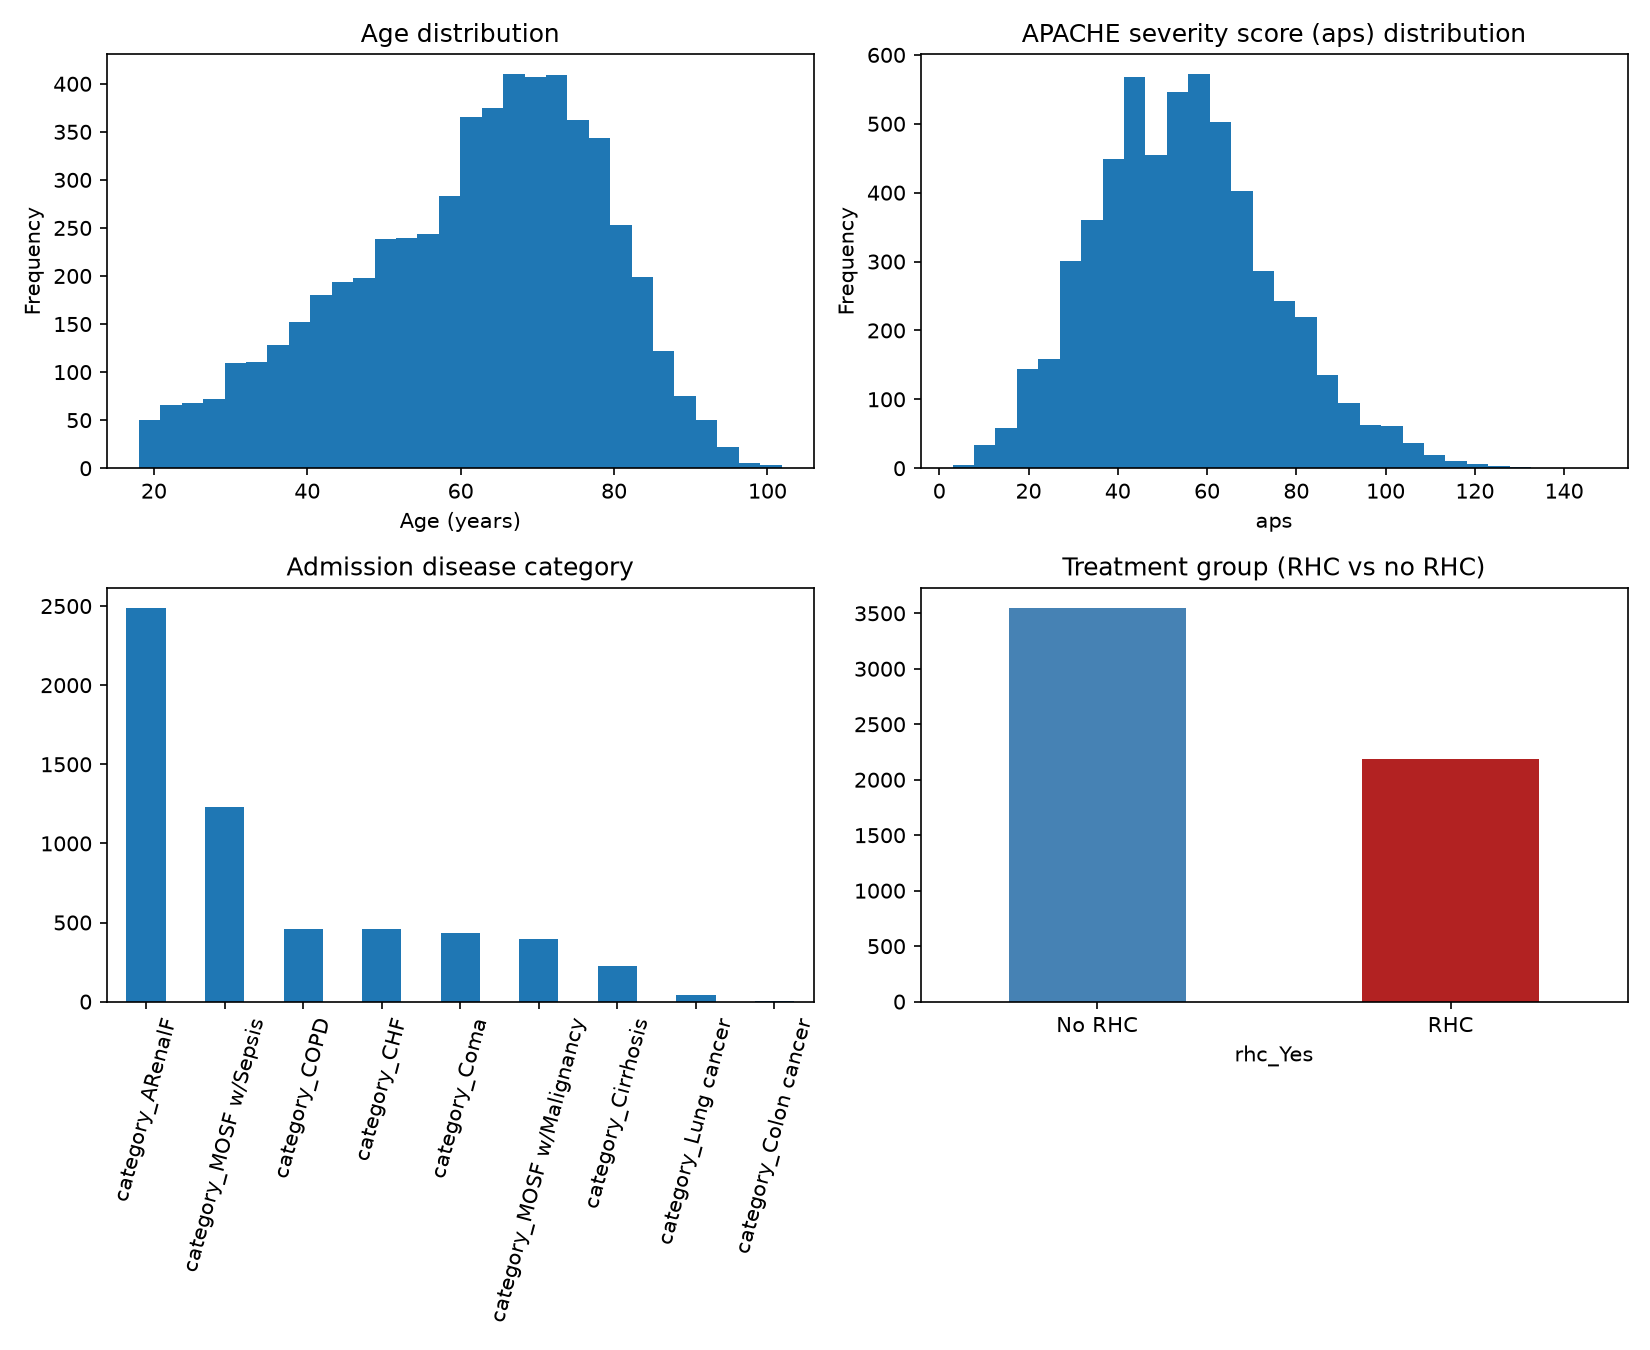
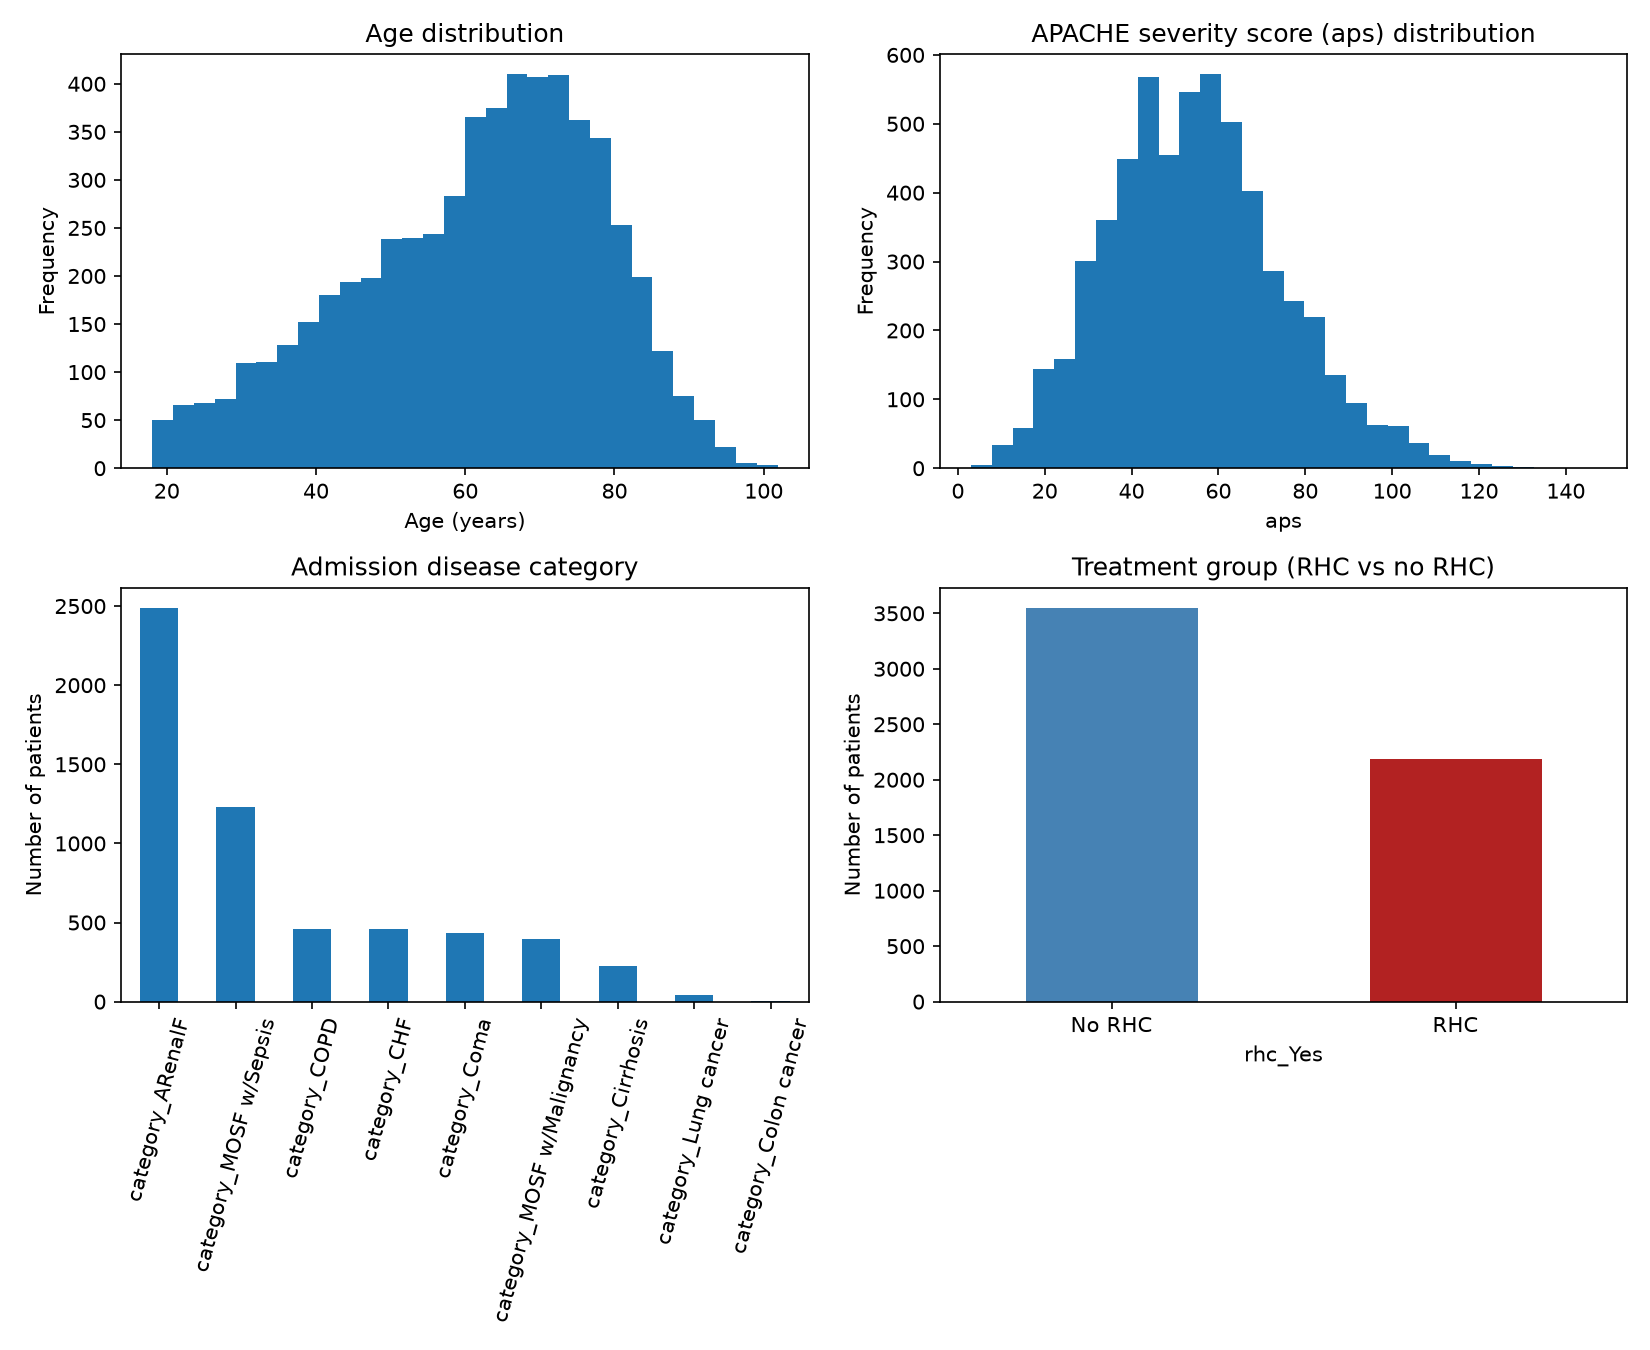
Fixed figure axis labels

diff --git a/eda_bias.py b/eda_bias.py
@@ -43,10 +43,12 @@ axes[0, 1].set_xlabel("aps")
 
 category_counts.plot(kind="bar", ax=axes[1, 0])
 axes[1, 0].set_title("Admission disease category")
+axes[1, 0].set_ylabel("Number of patients")
 axes[1, 0].tick_params(axis="x", rotation=75)
 
 treatment_counts.plot(kind="bar", ax=axes[1, 1], color=["steelblue", "firebrick"])
 axes[1, 1].set_title("Treatment group (RHC vs no RHC)")
+axes[1, 1].set_ylabel("Number of patients")
 axes[1, 1].tick_params(axis="x", rotation=0)
 
 fig.tight_layout()
